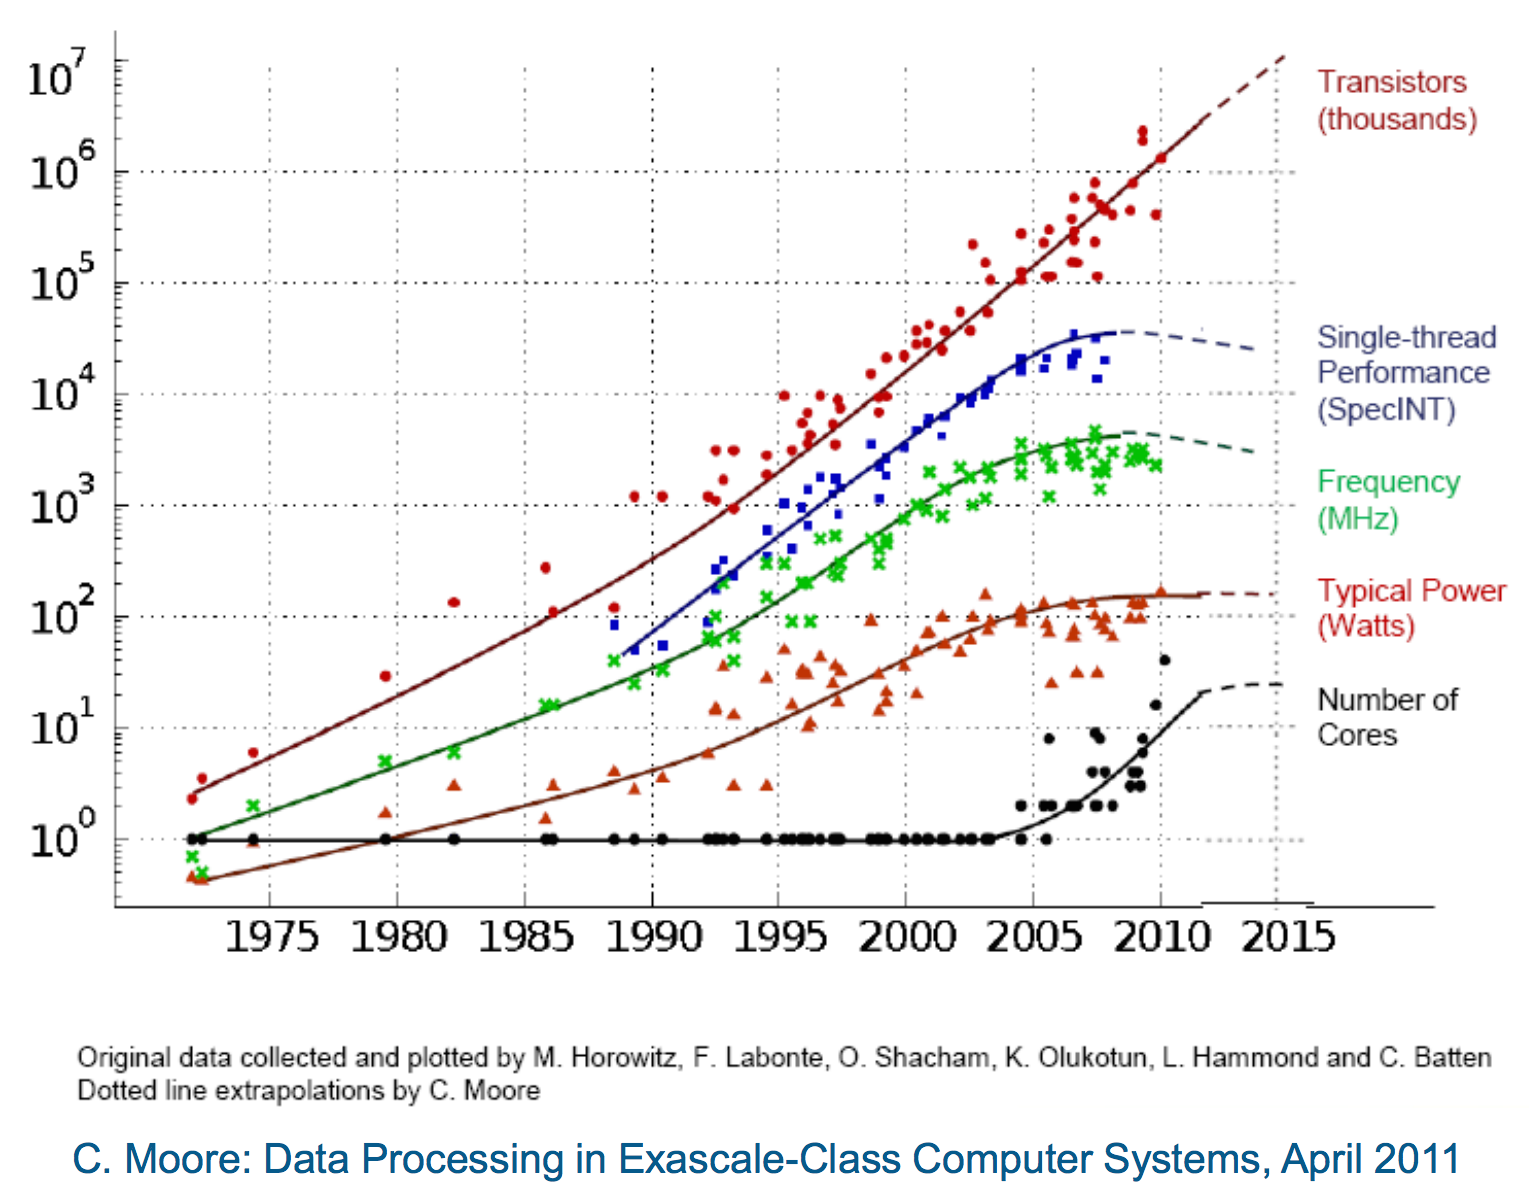
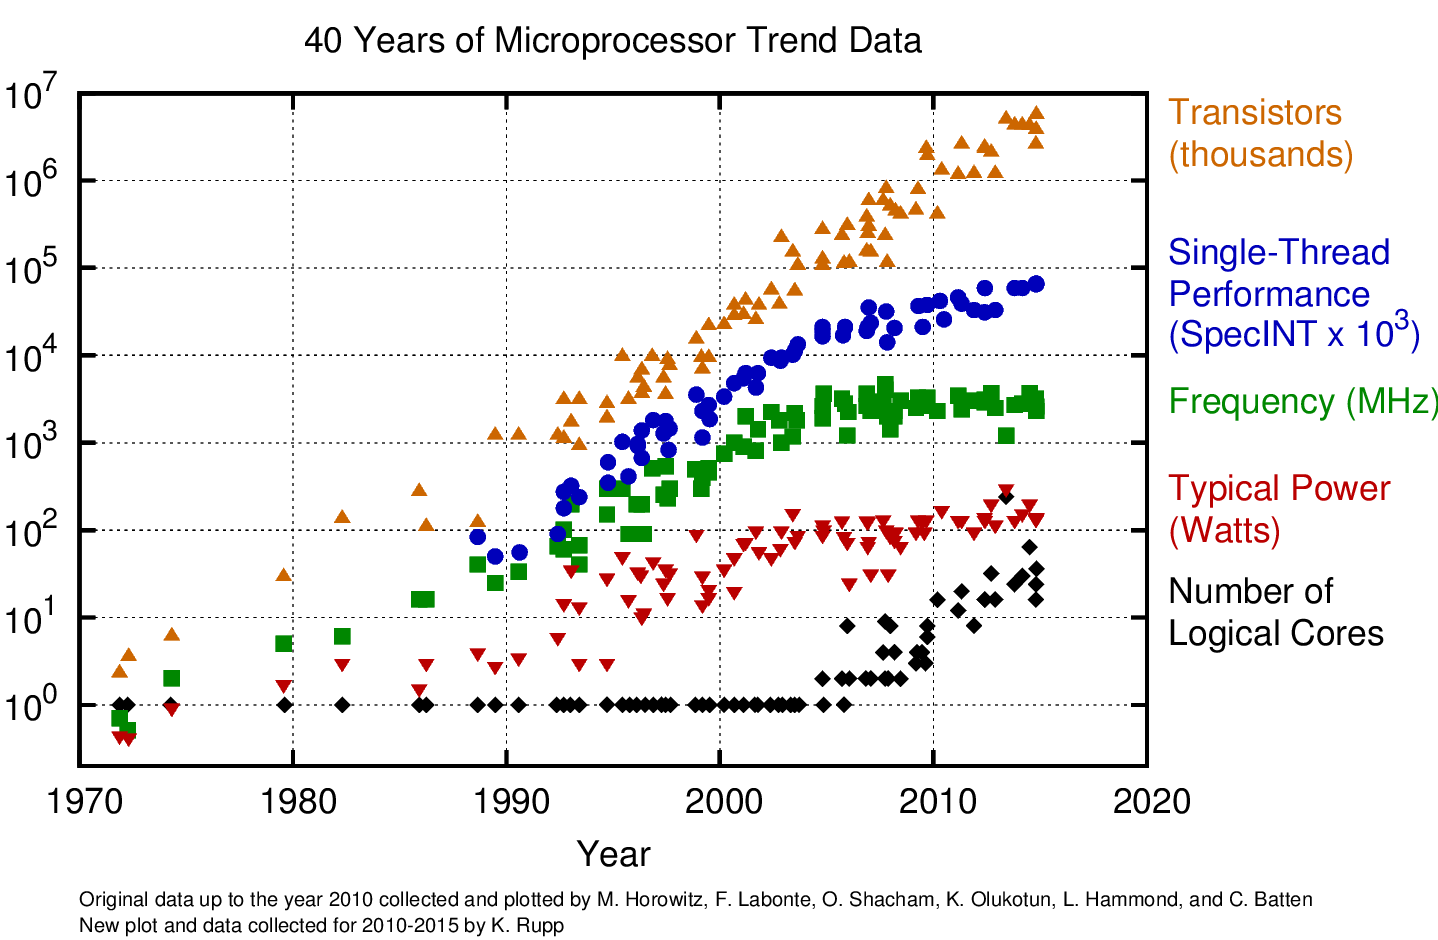
more

diff --git a/index.tex b/index.tex
@@ -96,15 +96,71 @@
 \metroset{background=dark} % change background theme according to manual
 
 \begin{frame}{Motivation}
-\includegraphics[width=0.5\linewidth]{img/old_ad}
-\includegraphics[width=0.5\linewidth]{img/2006_ad}
-Motivation. Couple of slides on speed of processors.
+\begin{columns}[T] % align columns
+\begin{column}{.5\textwidth}
+\centering{Computer add in 1993}
+\includegraphics[width=1.05\linewidth]{img/old_ad}
+\end{column}%
+\hfill%
+\begin{column}{.5\textwidth}
+\centering{Computer add in 2006}
+\includegraphics[width=\linewidth]{img/2006_ad}
+\end{column}%
+\end{columns}
+What has changed?
+\pause
+2006 = no longer mentions to speed of processors
+\end{frame}
+
+
+\begin{frame}{Moore's law}
+\begin{quote}
+The complexity for minimum component costs 
+has increased at a rate of roughly a factor of 
+two per year. Certainly over the short term this 
+rate can be expected to continue
+\end{quote}
+Gordon Moore (Intel), 1965
+\end{frame}
+
+
+\begin{frame}{40 years of CPU trends}
+\centering\includegraphics[width=0.8\linewidth]{img/moore_law}
+
+\begin{itemize}[<+->]
+\item Speed of CPUs has stagnated since 2005;
+\item Multi-core architectures are here to stay.
+\end{itemize}
+\pause {\bfseries Parallel algorithms needed to take advantage of modern CPUs.}
 \end{frame}
 
 
 \begin{frame}{Outline}
-synchronous and asynchronous optimization
+
+{\bfseries Goal of the talk} state of the art in parallel optimization methods in machine learning
+
+\begin{columns}[T] % align columns
+\begin{column}{.5\textwidth}
+ADMM
+\end{column}%
+\hfill%
+\begin{column}{.5\textwidth}
+
+\end{column}%
+\end{columns}
+
 \end{frame}
+
+\begin{frame}{Outline}
+Parallel algorithms can be divided into two 
+synchronous and asynchronous optimization
+
+\begin{figure}
+\includegraphics[width=\linewidth]{img/sync_vs_async}
+\caption{Image credits: Wotao}
+\end{figure}
+\end{frame}
+
 % 
 % \begin{frame}{Logistic regression}
 %     Pillar of supervised learning. One of the most common methods
@@ -236,13 +292,13 @@ synchronous and asynchronous optimization
 % 
 % 
 % 
-% \nocite{*}
-% 
-% \begin{frame}[allowframebreaks]{References}
-% 
-%   \bibliography{demo}
-%   \bibliographystyle{abbrv}
-% 
-% \end{frame}
+\nocite{*}
+
+\begin{frame}[allowframebreaks]{References}
+
+  \bibliography{demo}
+  \bibliographystyle{abbrv}
+
+\end{frame}
 
 \end{document}
